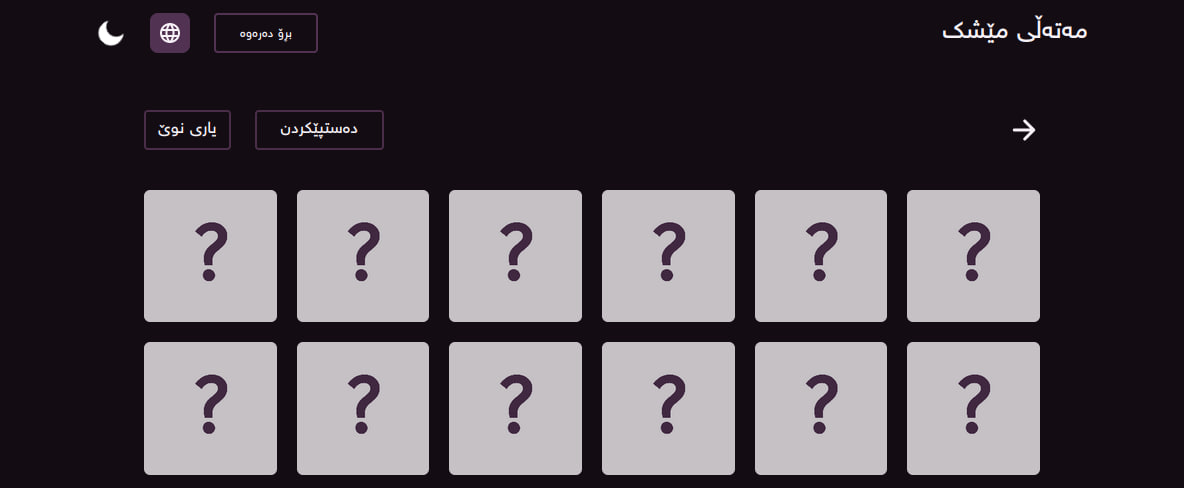
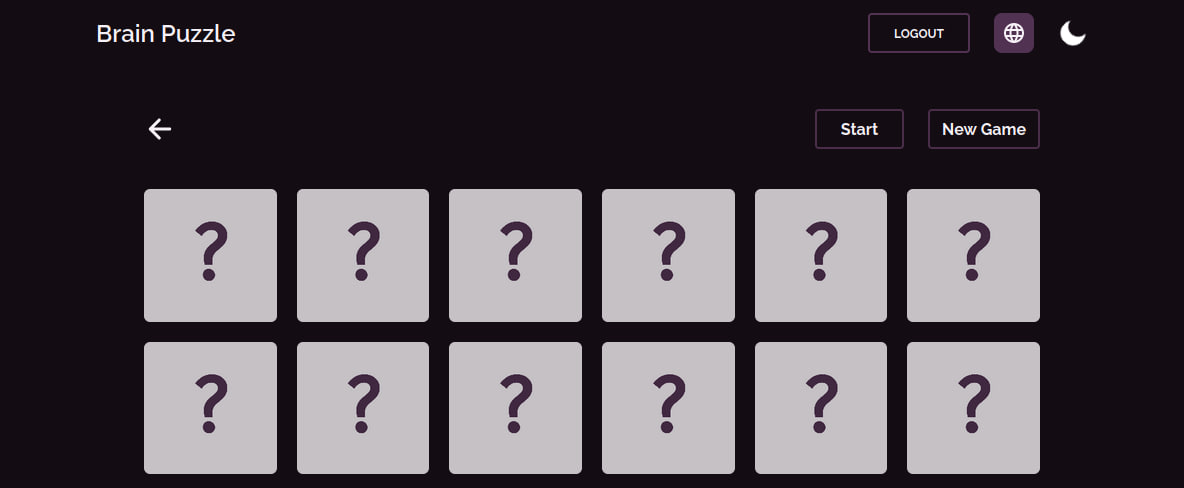
Fix readme images

diff --git a/READMEKU.md b/READMEKU.md
@@ -1,6 +1,6 @@
 # مەتەڵی مێشک
 
-![preview](./public/preview.jpg)
+![preview](./public/previewKu.jpg)
 
 #### [بە ئینگلیزی بخوێنەوە](./READMEKU.md)
 
